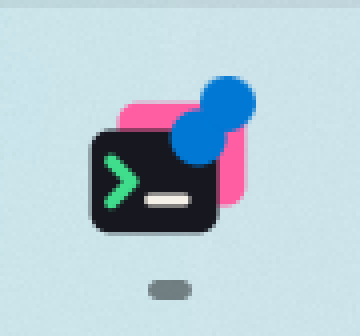
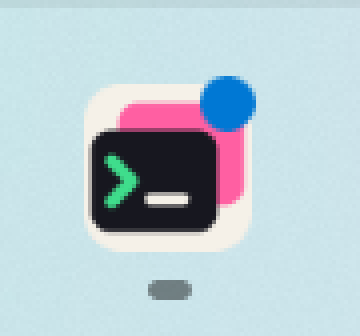
fix(notifications): let the shell overlay alone mark the installed taskbar button
The installed identity painted the attention mark twice: through
ITaskbarList3::SetOverlayIcon and, like Cargo builds, composed into the
window icon via WM_SETICON. Explorer honors the window icon whenever it
does not substitute a registered shortcut's icon for the button, so a
button without that backing showed two marks.

The overlay now carries the mark alone and leaves the window icon plain.
The window artwork remains the path for Cargo builds and for installs
whose overlay channel fails. A regression pins that an available overlay
never touches the window icon; the installed-identity capture and its
notes are updated.

diff --git a/src/ui/tray/taskbar.rs b/src/ui/tray/taskbar.rs
@@ -56,6 +56,17 @@ impl Drop for Icon {
     }
 }
 
+/// Explorer's overlay channel with the standalone mark it will place on the
+/// installed identity's taskbar button. GPUI initializes COM on its Windows
+/// UI thread; callers elsewhere must have initialized it themselves.
+fn open_overlay() -> anyhow::Result<(ITaskbarList3, Icon)> {
+    let list: ITaskbarList3 =
+        unsafe { CoCreateInstance(&TaskbarList, None, CLSCTX_INPROC_SERVER)? };
+    unsafe { list.HrInit()? };
+    let image = icon::attention_mark(32).context("could not render taskbar overlay")?;
+    Ok((list, Icon::from_image(image)?))
+}
+
 pub(super) struct Taskbar {
     icon: Icon,
     overlay: Option<(ITaskbarList3, Icon)>,
@@ -65,23 +76,18 @@ pub(super) struct Taskbar {
 impl Taskbar {
     fn new() -> anyhow::Result<Self> {
         // Explorer uses the registered shortcut's icon for the installed
-        // AppUserModelID, ignoring WM_SETICON on the grouped taskbar button.
-        // Keep the upper-right artwork for windows/Alt+Tab and dev builds;
-        // only shortcut-backed groups also need the shell's status overlay.
+        // AppUserModelID, ignoring WM_SETICON on that grouped taskbar button,
+        // so the installed identity delivers the mark through the shell's
+        // overlay. Cargo builds, and installs whose overlay channel fails,
+        // compose it into the window artwork instead. Never both: Explorer
+        // honors the window artwork whenever it does not substitute a
+        // shortcut's icon, and the button then shows two marks.
         let overlay = if std::env::current_exe()
             .is_ok_and(|exe| crate::core::aumid::taskbar_app_id(&exe) == crate::core::aumid::AUMID)
         {
-            // GPUI initializes COM on its Windows UI thread. Keep the window
-            // artwork available even if Explorer's overlay channel fails.
-            (|| -> anyhow::Result<_> {
-                let list: ITaskbarList3 =
-                    unsafe { CoCreateInstance(&TaskbarList, None, CLSCTX_INPROC_SERVER)? };
-                unsafe { list.HrInit()? };
-                let image = icon::attention_mark(32).context("could not render taskbar overlay")?;
-                Ok((list, Icon::from_image(image)?))
-            })()
-            .map_err(|error| log::debug!("taskbar overlay unavailable: {error:#}"))
-            .ok()
+            open_overlay()
+                .map_err(|error| log::debug!("taskbar overlay unavailable: {error:#}"))
+                .ok()
         } else {
             None
         };
@@ -97,11 +103,13 @@ impl Taskbar {
     fn apply(&mut self, hwnd: HWND, attention: bool) {
         if let Some((list, icon)) = &self.overlay {
             let mark = if attention { icon.0 } else { HICON::default() };
-            // Reapply even when the window artwork is unchanged, including
-            // after Explorer has recreated the group's taskbar button.
+            // Reapply even when nothing changed, including after Explorer has
+            // recreated the group's taskbar button.
             if let Err(error) = unsafe { list.SetOverlayIcon(hwnd, mark, w!("Agent attention")) } {
                 log::debug!("could not update taskbar attention overlay: {error}");
             }
+            // The overlay carries the mark; the window icon stays plain.
+            return;
         }
         if attention {
             let current = KINDS.map(|kind| unsafe {
@@ -219,6 +227,7 @@ mod tests {
     use windows::{
         Win32::{
             Foundation::{LPARAM, WPARAM},
+            System::Com::{COINIT_APARTMENTTHREADED, CoInitializeEx},
             UI::WindowsAndMessaging::{
                 CreateWindowExW, DefWindowProcW, DestroyWindow, GCLP_HICON, GCLP_HICONSM,
                 GetClassLongPtrW, ICON_BIG, ICON_SMALL, IDI_APPLICATION, LoadIconW, RegisterClassW,
@@ -321,6 +330,34 @@ mod tests {
         fn drop(&mut self) {
             let _ = unsafe { DestroyWindow(self.0) };
         }
+    }
+
+    #[test]
+    fn the_overlay_path_leaves_the_window_icon_plain() {
+        // Explorer may honor WM_SETICON even for the installed identity, on a
+        // button it does not back with a registered shortcut. Painting both
+        // paths put two marks on that button.
+        let _ = unsafe { CoInitializeEx(None, COINIT_APARTMENTTHREADED) };
+        let Ok(overlay) = open_overlay() else {
+            return; // the shell's TaskbarList class is not available here
+        };
+        let window = TestWindow::new();
+        let original = window.icons();
+        let mut taskbar = Taskbar {
+            icon: Icon::new(256).unwrap(),
+            overlay: Some(overlay),
+            originals: HashMap::new(),
+        };
+        taskbar.apply(window.0, true);
+        assert_eq!(
+            window.icons(),
+            original,
+            "the shell overlay carries the mark; the window artwork must stay plain"
+        );
+        taskbar.apply(window.0, false);
+        assert_eq!(window.icons(), original);
+        drop(taskbar);
+        assert_eq!(window.icons(), original);
     }
 
     #[test]

diff --git a/docs/testing/agent-attention-badge.md b/docs/testing/agent-attention-badge.md
@@ -389,6 +389,13 @@ the development identity and shows the window artwork; a copy of the same
 executable outside the build directory takes the installed identity and the
 shell overlay. The installed ctty7 release stayed running in the same taskbar.
 
+The installed identity used to paint both paths, the overlay and the window
+artwork. On a button Explorer does not back with a registered shortcut it
+honors the window artwork too, so that button showed two marks, which the
+Before crop below records. The overlay now carries the mark alone and the
+window icon stays plain; Cargo builds, and installs whose overlay channel
+fails, still compose it into the window artwork.
+
 | Location | Before | After |
 | --- | --- | --- |
 | Window artwork, development identity | ![Grey disc with white dot on the window artwork](images/agent-attention-dot/before-taskbar-window.png) ![Enlarged](images/agent-attention-dot/before-taskbar-window-x4.png) | ![Small blue dot on the window artwork](images/agent-attention-dot/after-taskbar-window.png) ![Enlarged](images/agent-attention-dot/after-taskbar-window-x4.png) |
@@ -402,6 +409,10 @@ shell overlay. The installed ctty7 release stayed running in the same taskbar.
   assert the solid `#0078D4` centre, that the old discs' reach now compares
   equal to the plain logo, that no grey or white opaque pixel survives, and that
   the artwork below the dot is untouched, at 16 to 256 pixels.
+- `cargo test --locked --bin tty7-app tray::taskbar::`: a new regression,
+  `the_overlay_path_leaves_the_window_icon_plain`, pins that a taskbar with an
+  overlay available never touches the window icon, next to the existing
+  window-artwork tests for the development identity.
 - `cargo test --offline --locked --workspace --target-dir D:/gh-prj/ctty7/target`
   passes 3,210 tests, with 12 ignored and no failures. `cargo fmt -p tty7 --
   --check` and `git diff --check` pass.
@@ -416,11 +427,12 @@ shell overlay. The installed ctty7 release stayed running in the same taskbar.
   `#202124`) comes from the prototype's contrast calculation; the capture
   machine's system theme was not switched for a native dark capture.
 - On this machine the installed-identity fixture did not join the running
-  release's taskbar group: Explorer gave it a button of its own, which carries
-  both delivery paths at once, the mark composed into the window artwork and
-  the shell overlay at the corner. That button is the one cropped, so it shows
-  two dots before and after; only their colour and size changed. The release's
-  own button next to it kept the previous grey overlay because that older build
-  was still running with an unread result.
+  release's taskbar group, so its own button is the one cropped: Before shows
+  both delivery paths on it, After the overlay alone. During the Before
+  capture the running release's button sat next to it with its own grey
+  overlay; that release had exited by the After capture.
+- With the overlay carrying the mark, the installed identity's window icon
+  stays plain, so Alt+Tab no longer shows the mark for installed builds; the
+  taskbar button does.
 - The tray capture shows the fixture's icon promoted into the visible
   notification area; the overflow flyout was not captured.
